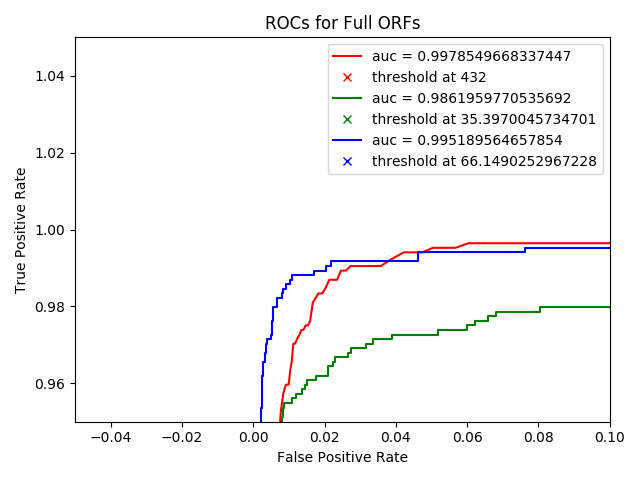
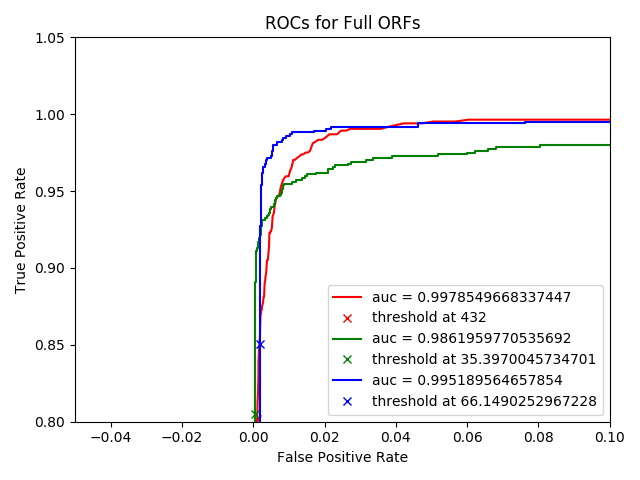
better full report and zoom

diff --git a/hw4/src/main.py b/hw4/src/main.py
@@ -465,7 +465,7 @@ def main():
   plt.savefig(c.results_folder + "full_roc" + c.png_exten)
 
   plt.xlim(-0.05, 0.10)
-  plt.ylim(0.95, 1.05)
+  plt.ylim(0.80, 1.05)
   plt.tight_layout()
   plt.savefig(c.results_folder + "full_rocs_zoom" + c.png_exten)
   plt.close()
